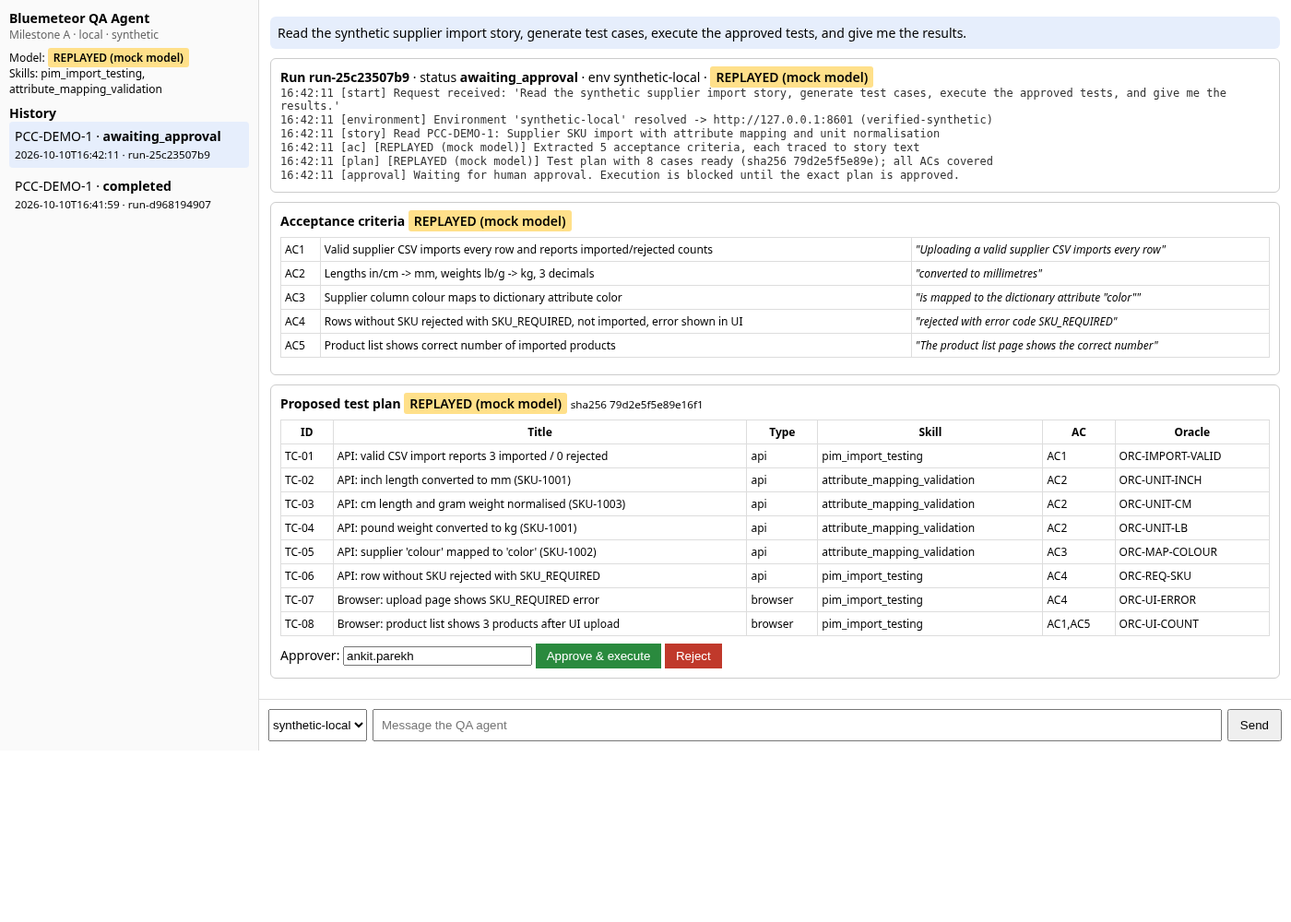
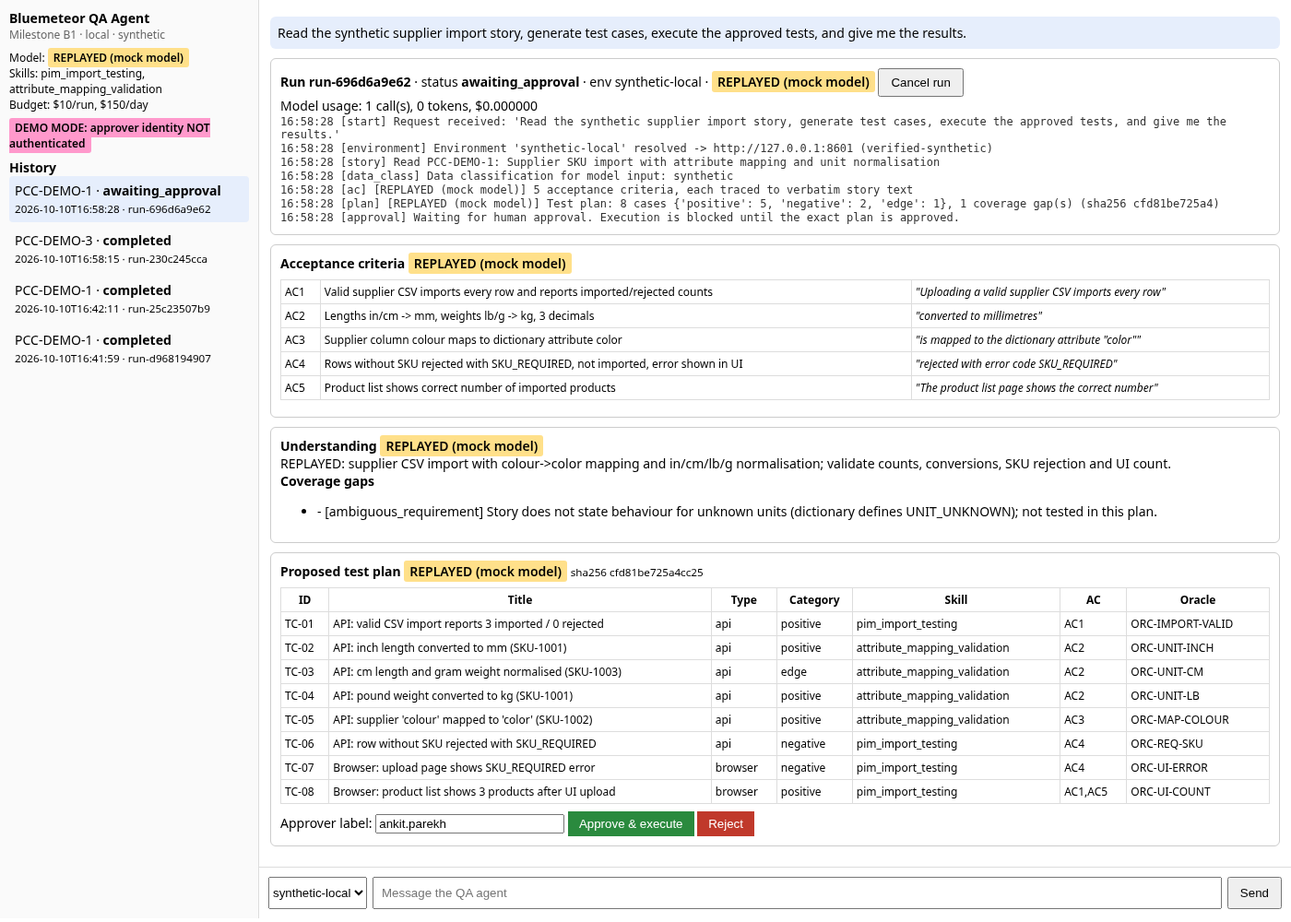
B1: workspace UI (login, understanding/gaps, categories, cancel, usage, plan-hash approval), B1 two-user demo script + screenshots, README (B1 features, local-vs-enterprise controls, B2 enablement)

diff --git a/qa_agent/static/index.html b/qa_agent/static/index.html
@@ -16,16 +16,23 @@ table{border-collapse:collapse;width:100%;margin:8px 0}td,th{border:1px solid #d
 button{padding:6px 12px;cursor:pointer}#approve{background:#2a8a3e;color:#fff;border:0}#reject{background:#c0392b;color:#fff;border:0}
 .user{background:#e6eefc;padding:8px;border-radius:6px;margin:6px 0}
 </style></head><body>
-<div id="side"><b>Bluemeteor QA Agent</b><div style="font-size:12px;color:#666">Milestone A · local · synthetic</div>
-<div id="cfg" style="margin:8px 0;font-size:12px"></div><b>History</b><div id="runs"></div></div>
+<div id="side"><b>Bluemeteor QA Agent</b><div style="font-size:12px;color:#666">Milestone B1 · local · synthetic</div>
+<div id="cfg" style="margin:8px 0;font-size:12px"></div><div id="auth" style="margin:8px 0;font-size:12px"></div><b>History</b><div id="runs"></div></div>
 <div id="main"><div id="chat"><p style="color:#666">Ask, e.g.: <i>Read the synthetic supplier import story, generate test cases, execute the approved tests, and give me the results.</i></p></div>
 <div id="bar"><select id="env"></select><input id="msg" placeholder="Message the QA agent"><button id="send">Send</button></div></div>
 <script>
-let current = null, timer = null;
+let current = null, timer = null, plan_hash = null;
 const $ = s => document.querySelector(s), esc = s => String(s ?? '').replace(/[&<>"]/g, c => ({'&':'&amp;','<':'&lt;','>':'&gt;','"':'&quot;'}[c]));
 async function j(u, o) { const r = await fetch(u, o); if (!r.ok) throw new Error(await r.text()); return r.json(); }
+async function loadAuth() { const me = await (await fetch('/api/me')).json().catch(() => ({}));
+  if (me.mode === 'local' && !me.authenticated) { $('#auth').innerHTML = `<b>Sign in</b><br><input id="tok" type="password" placeholder="local token" style="width:100%"><button id="login" onclick="login()">Sign in</button>`; return false; }
+  $('#auth').innerHTML = me.mode === 'demo' ? '<span class="lbl" style="background:#f9c">DEMO MODE: approver identity NOT authenticated</span>'
+    : `Signed in: <b>${esc(me.user)}</b> (${esc(me.role)}) <a href="#" onclick="logout()">sign out</a>`; return true; }
+async function login() { const r = await fetch('/api/login', {method:'POST', headers:{'Content-Type':'application/json'}, body: JSON.stringify({token: $('#tok').value})});
+  if (!r.ok) { alert('invalid token'); return; } boot(); }
+async function logout() { await fetch('/api/logout', {method:'POST'}); location.reload(); }
 async function loadCfg() { const c = await j('/api/config');
-  $('#cfg').innerHTML = `Model: <span class="lbl">${esc(c.model_label)}</span><br>Skills: ${c.skills.map(s => esc(s.name)).join(', ')}`;
+  $('#cfg').innerHTML = `Model: <span class="lbl">${esc(c.model_label)}</span><br>Skills: ${c.skills.map(s => esc(s.name)).join(', ')}<br>Budget: $${c.budget.per_run_usd}/run, $${c.budget.daily_usd}/day`;
   $('#env').innerHTML = c.environments.map(e => `<option>${esc(e)}</option>`).join(''); }
 async function loadRuns() { const rs = await j('/api/runs');
   $('#runs').innerHTML = rs.map(r => `<div class="run ${r.id === current ? 'sel' : ''}" onclick="show('${r.id}')">${esc(r.story_key || '?')} · <b>${esc(r.status)}</b><br><small>${esc(r.created.slice(0,19))} · ${esc(r.id)}</small></div>`).join(''); }
@@ -33,25 +40,31 @@ async function show(id) { current = id; clearInterval(timer); await render(); ti
 async function render() {
   if (!current) return; const r = await j('/api/runs/' + current); const base = '/api/runs/' + current;
   let h = `<div class="user">${esc(r.request)}</div><div class="card"><b>Run ${esc(r.id)}</b> · status <b id="status">${esc(r.status)}</b> · env ${esc(r.environment)} · <span class="lbl">${esc(r.model_label)}</span>
+   ${['planning','awaiting_approval','executing'].includes(r.status) ? `<button id="cancel" onclick="cancelRun()">Cancel run</button>` : ''}
+   <div>Model usage: ${r.usage.calls} call(s), ${r.usage.total_tokens} tokens, $${r.usage.cost_usd.toFixed(6)}</div>
    <div id="events">${r.events.map(e => `<div class="ev">${esc(e.ts.slice(11,19))} [${esc(e.step)}] ${esc(e.message)}</div>`).join('')}</div></div>`;
   if (r.ac_json) h += `<div class="card"><b>Acceptance criteria</b> <span class="lbl">${esc(r.model_label)}</span><table>${r.ac_json.acceptance_criteria.map(a => `<tr><td>${a.id}</td><td>${esc(a.text)}</td><td><i>"${esc(a.source_quote)}"</i></td></tr>`).join('')}</table></div>`;
-  if (r.plan_json) { h += `<div class="card" id="plan"><b>Proposed test plan</b> <span class="lbl">${esc(r.model_label)}</span> <small>sha256 ${esc(r.plan_hash.slice(0,16))}</small><table><tr><th>ID</th><th>Title</th><th>Type</th><th>Skill</th><th>AC</th><th>Oracle</th></tr>
-    ${r.plan_json.test_cases.map(t => `<tr><td>${t.id}</td><td>${esc(t.title)}</td><td>${t.type}</td><td>${esc(t.skill)}</td><td>${t.ac_refs.join(',')}</td><td>${esc(t.oracle_ref)}</td></tr>`).join('')}</table>`;
-    if (r.status === 'awaiting_approval') h += `Approver: <input id="who" value="ankit.parekh"> <button id="approve" onclick="decide('approved')">Approve &amp; execute</button> <button id="reject" onclick="decide('rejected')">Reject</button>`;
-    else if (r.approval) h += `<div>Plan <b>${esc(r.approval.decision)}</b> by ${esc(r.approval.approver)} at ${esc(r.approval.ts)}</div>`;
+  if (r.planning_json) { const u = r.planning_json.understanding; h += `<div class="card"><b>Understanding</b> <span class="lbl">${esc(r.model_label)}</span><div>${esc(u.summary)}</div>${u.assumptions.length ? '<small>Assumptions: ' + u.assumptions.map(esc).join('; ') + '</small>' : ''}
+    <div id="gaps"><b>Coverage gaps</b><ul>${r.planning_json.coverage_gaps.map(g => `<li>${esc(g.ac_refs.join(',') || '-')} [${esc(g.kind)}] ${esc(g.reason)}</li>`).join('') || '<li>none</li>'}</ul></div></div>`; }
+  if (r.plan_json) { plan_hash = r.plan_hash; h += `<div class="card" id="plan"><b>Proposed test plan</b> <span class="lbl">${esc(r.model_label)}</span> <small>sha256 ${esc(r.plan_hash.slice(0,16))}</small><table><tr><th>ID</th><th>Title</th><th>Type</th><th>Category</th><th>Skill</th><th>AC</th><th>Oracle</th></tr>
+    ${r.plan_json.test_cases.map(t => `<tr><td>${t.id}</td><td>${esc(t.title)}</td><td>${t.type}</td><td>${esc(t.category || '')}</td><td>${esc(t.skill)}</td><td>${t.ac_refs.join(',')}</td><td>${esc(t.oracle_ref)}</td></tr>`).join('')}</table>`;
+    if (r.status === 'awaiting_approval') h += `Approver label: <input id="who" value="ankit.parekh"> <button id="approve" onclick="decide('approved')">Approve &amp; execute</button> <button id="reject" onclick="decide('rejected')">Reject</button>`;
+    else if (r.approval) h += `<div>Plan <b>${esc(r.approval.decision)}</b> by ${esc(r.approval.approver)} (${r.approval.identity ? 'authenticated' : 'UNAUTHENTICATED demo label'}) at ${esc(r.approval.ts)}</div>`;
     h += `</div>`; }
-  if (r.results.length) h += `<div class="card" id="results"><b>Results</b>${r.summary_json ? ` — ${r.summary_json.passed} passed, ${r.summary_json.failed} failed, ${r.summary_json.error} error, ${r.summary_json.blocked} blocked` : ' (running…)'}
+  if (r.results.length) h += `<div class="card" id="results"><b>Results</b>${r.summary_json ? ` — ${r.summary_json.passed} passed, ${r.summary_json.failed} failed, ${r.summary_json.error} error, ${r.summary_json.blocked} blocked` : ' (running…)'}${r.summary_json ? '' : ''}
     <table><tr><th>ID</th><th>Test</th><th>Status</th><th>Mismatch / error</th><th>Evidence</th></tr>${r.results.map(x => `<tr><td>${x.id}</td><td>${esc(x.title)}</td><td><span class="badge ${x.status}">${x.status}</span></td>
     <td>${x.diffs.length ? x.diffs.map(d => `${esc(d.field)}: expected ${esc(JSON.stringify(d.expected))}, got ${esc(JSON.stringify(d.actual))}`).join('<br>') : esc(x.error || '')}</td>
-    <td>${x.screenshot ? `<a href="${base}/artifacts/${x.screenshot}" target=_blank><img src="${base}/artifacts/${x.screenshot}" width=120></a>` : ''} <a href="${base}/artifacts/${x.trace}">trace</a> <a href="${base}/artifacts/${x.log}" target=_blank>log</a></td></tr>`).join('')}</table></div>`;
-  if (r.status === 'completed') h += `<div class="card" id="links"><a id="report-link" href="${base}/report.html" target=_blank>Report (HTML)</a> · <a href="${base}/report.json">Report (JSON)</a> · <a href="${base}/audit.jsonl" target=_blank>Audit log (${r.audit_count})</a></div>`;
+    <td>${x.screenshot ? `<a href="${base}/artifacts/${x.screenshot}" target=_blank><img src="${base}/artifacts/${x.screenshot}" width=120></a>` : ''} ${x.trace ? `<a href="${base}/artifacts/${x.trace}">trace</a>` : ''} ${x.log ? `<a href="${base}/artifacts/${x.log}" target=_blank>log</a>` : ''}</td></tr>`).join('')}</table></div>`;
+  if (['completed','cancelled'].includes(r.status) && r.summary_json) h += `<div class="card" id="links"><a id="report-link" href="${base}/report.html" target=_blank>Report (HTML)</a> · <a href="${base}/report.json">Report (JSON)</a> · <a href="${base}/audit.jsonl" target=_blank>Audit log (${r.audit_count})</a></div>`;
   if (r.error) h += `<div class="card" style="color:#c0392b">Error: ${esc(r.error)}</div>`;
   $('#chat').innerHTML = h; loadRuns();
-  if (['completed','failed','rejected','blocked','interrupted'].includes(r.status)) clearInterval(timer);
+  if (['completed','failed','rejected','blocked','interrupted','cancelled'].includes(r.status)) clearInterval(timer);
 }
-async function decide(d) { await j(`/api/runs/${current}/approval`, {method:'POST', headers:{'Content-Type':'application/json'}, body: JSON.stringify({approver: $('#who').value, decision: d})}); show(current); }
+async function cancelRun() { await j(`/api/runs/${current}/cancel`, {method:'POST'}); render(); }
+async function decide(d) { try { await j(`/api/runs/${current}/approval`, {method:'POST', headers:{'Content-Type':'application/json'}, body: JSON.stringify({approver: $('#who').value, decision: d, plan_hash})}); } catch (e) { alert(e.message); } show(current); }
 $('#send').onclick = async () => { const m = $('#msg').value.trim(); if (!m) return; $('#msg').value = '';
   const r = await j('/api/chat', {method:'POST', headers:{'Content-Type':'application/json'}, body: JSON.stringify({message: m, environment: $('#env').value})}); show(r.run_id); };
 $('#msg').onkeydown = e => { if (e.key === 'Enter') $('#send').click(); };
-loadCfg(); loadRuns();
+async function boot() { if (await loadAuth()) { loadCfg(); loadRuns(); } }
+boot();
 </script></body></html>

diff --git a/scripts/demo_b1.py b/scripts/demo_b1.py
@@ -1,0 +1,85 @@
+"""Milestone B1 demo, fully local: synthetic SUT + LOCAL model stub (no real model) + agent in local-auth mode.
+Drives the real UI with Playwright as two users (requester, approver) and saves screenshots to docs/screenshots/b1_*.png.
+
+  .venv/bin/python scripts/demo_b1.py [STORY_KEY]      (default PCC-DEMO-3, the prompt-injection story)
+
+The XAI_API_KEY used here is a FAKE placeholder sent only to the 127.0.0.1 stub. Pricing values are FAKE demo
+placeholders so the cost arithmetic is visible; they are not xAI prices."""
+import copy, json, os, subprocess, sys, time
+from pathlib import Path
+import httpx
+from playwright.sync_api import sync_playwright
+
+ROOT = Path(__file__).resolve().parent.parent
+sys.path.insert(0, str(ROOT))
+from qa_agent.auth import UserStore  # noqa: E402
+
+SHOTS, DATA = ROOT / "docs/screenshots", ROOT / "data"
+STORY = sys.argv[1] if len(sys.argv) > 1 else "PCC-DEMO-3"
+
+
+def up(url):
+    for _ in range(150):
+        try:
+            if httpx.get(url).status_code < 500:
+                return
+        except httpx.HTTPError:
+            time.sleep(0.1)
+    raise SystemExit(f"{url} did not start")
+
+
+def main():
+    SHOTS.mkdir(parents=True, exist_ok=True); DATA.mkdir(exist_ok=True)
+    us = UserStore(DATA / "users.json")
+    req_tok, appr_tok = us.add("ankit", "requester"), us.add("qa_lead", "approver")
+    cfg = json.loads((ROOT / "config/agent.json").read_text())
+    cfg["model"]["provider"] = "grok"
+    cfg["providers"]["grok"].update(enabled=True, base_url="http://127.0.0.1:8701/v1",
+                                    pricing={"input_per_mtok_usd": 2.0, "cached_input_per_mtok_usd": 0.5, "output_per_mtok_usd": 6.0},
+                                    _pricing_note="FAKE demo placeholder prices")
+    (DATA / "demo_b1_agent_config.json").write_text(json.dumps(cfg, indent=2))
+    env = dict(os.environ, SUT_DEFECTS=os.environ.get("SUT_DEFECTS", "all"), SYNTHETIC_SUT_URL="http://127.0.0.1:8601",
+               QA_AUTH_MODE="local", QA_USERS_FILE=str(DATA / "users.json"), QA_AGENT_CONFIG=str(DATA / "demo_b1_agent_config.json"),
+               XAI_API_KEY="xai-LOCALSTUBFAKEKEY-not-a-real-credential")
+    procs = [subprocess.Popen([sys.executable, "-m", "uvicorn", "sut.app:app", "--host", "127.0.0.1", "--port", "8601"], cwd=ROOT, env=env),
+             subprocess.Popen([sys.executable, "-m", "uvicorn", "qa_agent.devtools.model_stub:app", "--host", "127.0.0.1", "--port", "8701"], cwd=ROOT, env=env),
+             subprocess.Popen([sys.executable, "-m", "qa_agent.server"], cwd=ROOT, env=env)]
+    try:
+        up("http://127.0.0.1:8601/api/health"); up("http://127.0.0.1:8701/_stub/requests"); up("http://127.0.0.1:8600/api/me")
+        css = "body{height:auto!important} #main{height:auto} #chat{overflow:visible!important}"
+        with sync_playwright() as pw:
+            b = pw.chromium.launch(headless=True)
+            req = b.new_context(viewport={"width": 1400, "height": 1000}).new_page()
+            req.goto("http://127.0.0.1:8600/"); req.add_style_tag(content=css)
+            req.wait_for_selector("#tok"); req.fill("#tok", req_tok); req.click("#login")
+            req.wait_for_selector("#msg")
+            req.fill("#msg", f"Read {STORY}, generate test cases, execute the approved tests, and give me the results.")
+            req.click("#send")
+            req.wait_for_selector("#gaps", timeout=30000)
+            req.screenshot(path=str(SHOTS / "b1_01_requester_plan_with_gaps.png"), full_page=True)
+            rid = req.inner_text("#chat .card b").split()[-1]
+            appr = b.new_context(viewport={"width": 1400, "height": 1000}).new_page()
+            appr.goto("http://127.0.0.1:8600/"); appr.add_style_tag(content=css)
+            appr.wait_for_selector("#tok"); appr.fill("#tok", appr_tok); appr.click("#login")
+            appr.wait_for_selector(f"text={rid}"); appr.click(f"text={rid}")
+            appr.wait_for_selector("#approve")
+            appr.screenshot(path=str(SHOTS / "b1_02_approver_review.png"), full_page=True)
+            appr.click("#approve")
+            appr.wait_for_selector("#links", timeout=180000)
+            appr.screenshot(path=str(SHOTS / "b1_03_results.png"), full_page=True)
+            b.close()
+        H = {"Authorization": f"Bearer {appr_tok}"}
+        run = httpx.get(f"http://127.0.0.1:8600/api/runs/{rid}", headers=H).json()
+        print(json.dumps({"run_id": rid, "story": STORY, "status": run["status"], "model_label": run["model_label"],
+                          "summary": run["summary_json"], "usage": run["usage"], "approval": {k: run["approval"][k] for k in ("approver", "identity", "auth_mode")},
+                          "coverage_gaps": run["planning_json"]["coverage_gaps"],
+                          "stub_requests": len(httpx.get("http://127.0.0.1:8701/_stub/requests").json()),
+                          "audit_verify": httpx.get("http://127.0.0.1:8600/api/audit/verify", headers=H).json(),
+                          "report": str(DATA / "runs" / rid / "report.html")}, indent=2))
+    finally:
+        for p in procs:
+            p.terminate(); p.wait(10)
+
+
+if __name__ == "__main__":
+    main()

diff --git a/qa_agent/server.py b/qa_agent/server.py
@@ -34,6 +34,9 @@ class LoginIn(BaseModel):
 
 def create_app(data_dir: Path | None = None, auth_mode: str | None = None, users_file: Path | None = None, agent_cfg: dict | None = None) -> FastAPI:
     data_dir = Path(data_dir or os.environ.get("QA_DATA_DIR", ROOT / "data"))
+    if agent_cfg is None and os.environ.get("QA_AGENT_CONFIG"):
+        import json
+        agent_cfg = json.loads(Path(os.environ["QA_AGENT_CONFIG"]).read_text())
     agent = QAAgent(data_dir, agent_cfg=agent_cfg)
     acfg = agent.cfg.get("auth", {})
     mode = auth_mode or os.environ.get("QA_AUTH_MODE") or acfg.get("mode", "demo")
@@ -86,7 +89,11 @@ def create_app(data_dir: Path | None = None, auth_mode: str | None = None, users
         return {"ok": True}
 
     @app.get("/api/me")
-    def me(p: Principal = Depends(principal)):
+    def me(request: Request):
+        try:
+            p = principal(request)
+        except HTTPException:
+            return {"user": None, "role": None, "mode": mode, "authenticated": False}
         return {"user": p.name, "role": p.role, "mode": p.mode, "authenticated": p.authenticated}
 
     @app.get("/api/config")

diff --git a/README.md b/README.md
@@ -1,4 +1,4 @@
-# Bluemeteor QA Agent — Milestone A (local, synthetic, replay model)
+# Bluemeteor QA Agent — Milestones A + B1 (local, synthetic; no real model reasoning yet)
 
 A small, working, general-purpose QA agent. It reads a Jira-style story, extracts acceptance criteria, proposes a
 test plan, waits for **human approval of the exact plan**, runs **real Playwright** browser + API tests against a
@@ -43,6 +43,71 @@ Runs, the SQLite history (`data/qa_agent.db`) and artifacts (`data/runs/<run_id>
 Seeded defects (`SUT_DEFECTS`, comma list or `all`): `inch_factor`, `drop_color`, `no_sku_validation`, `ui_count_off`.
 With `all`, the expected result is 3 passed / 5 failed (TC-02, TC-05, TC-06, TC-07, TC-08). With none, it's 8/8 passed.
 
+
+## Milestone B1 (implemented, local only; no live API calls have been made)
+
+> **No real model reasoning has happened yet.** Plans come either from the **Replay** provider (recordings) or from
+> `GrokProvider` pointed at a **local OpenAI-compatible stub** (`qa_agent/devtools/model_stub.py`) that answers from the
+> same hand-authored recordings. Labels: `REPLAYED (mock model)` and `STUB ENDPOINT (...; NOT real model reasoning)`.
+> Live use (`LIVE MODEL (...)`) is Milestone B2 and needs approvals.
+
+**GrokProvider** (`qa_agent/providers/models.py`)
+- Calls `POST {base_url}/chat/completions`, the OpenAI-compatible xAI Chat Completions endpoint. It sends `response_format: {type: json_schema, json_schema: {name, schema, strict: true}}` and `max_completion_tokens`, because the docs mark `max_tokens` as deprecated.
+  Sources (checked 2026-10-10): [Structured Outputs](https://docs.x.ai/docs/guides/structured-outputs), [Chat Completions reference](https://docs.x.ai/developers/rest-api-reference/inference/chat-completions), [Rate limits](https://docs.x.ai/developers/rate-limits) (429, back off), [Debugging errors](https://docs.x.ai/docs/debugging).
+  xAI recommends the Responses API for new integrations. This build uses Chat Completions for OpenAI compatibility, and moving to Responses is a later change.
+- Model name, base URL, timeout, retries, backoff and max tokens are all set in config (`config/agent.json -> providers.grok`). Retries use exponential backoff on 429/5xx/timeouts and honour `Retry-After`, capped. Other 4xx errors are not retried.
+- The provider fails closed when any of these is true: `enabled=false`, no API key in the env var `XAI_API_KEY` (read server-side at call time only), pricing not configured, an external host without `approved=true` plus `approval_ref`, a data class not in `allowed_data_classes`, or no audited gateway bound. There is **no automatic fallback** to another provider.
+- Egress is checked at the gateway (`model.request`, default deny). Loopback is allowed for the stub. `api.x.ai` passes only when it is listed in `approved_model_hosts` **and** the provider is approved. Tests show a misconfigured `api.x.ai` call being denied before anything leaves the process, with a socket guard in place.
+- Secrets are redacted from audit, events, errors, logs and reports (`util.redact`, which matches registered env values, `xai-…` and `Bearer …`). A test checks the DB, JSONL, evidence, unzipped traces and every API response for the key after a run in which the endpoint echoed the key back.
+
+**Dynamic planning** (`qa_agent/planning.py`)
+- The model receives the story wrapped as untrusted data (`<untrusted_story>`), plus a catalog of registered skill actions with their allowed params, oracle IDs with the ACs/actions they cover and the fields they check (expected values are **withheld**), and the fixture files.
+- It returns: understanding, ACs with verbatim quotes, behaviors, positive/negative/edge tests, selected skills, executable specs and coverage gaps. A human approves the plan before anything runs.
+- **Policy violations are never repaired.** They are rejected and audited (`model.output_validation` deny). They include: restricted keys (command, url, endpoint, expected, permissions, tool, auto_approve…), unknown skills/actions/oracles, an oracle not approved for those ACs or that action, fabricated ACs or quotes, unsupported or mismatched test types, and params outside the allowlist (file allowlist, SKU pattern, no shell/URL/traversal patterns).
+- **Format errors get a bounded repair** (`repair.max_format_repairs`, default 2): invalid JSON, schema mismatch, empty or truncated output (`finish_reason=length`), duplicate IDs, and ACs that are neither tested nor declared as gaps.
+- New synthetic stories: `PCC-DEMO-2` (weight units, UNIT_UNKNOWN, ETIM gap), `PCC-DEMO-3` (prompt injection in the story text; a `obey_injection` stub variant tests rejection) and `PCC-DEMO-4` (header-only edge case, size-limit gap). Each has a reviewer-style oracle manifest.
+
+**Cost and usage**
+- Each call is stored in SQLite with prompt, cached, completion and reasoning tokens. Cost = usage × configured prices (USD per 1M tokens; reasoning tokens billed as output when `total_tokens` includes them, per the documented examples).
+- The per-run cap (`budget.per_run_usd`) and the daily cap (`budget.daily_usd`, UTC day) are checked **before** each call against a conservative estimate. Unknown pricing means the provider won't start. A response with no usage block fails closed and is charged at the estimate.
+- Telemetry is at `/api/telemetry`, and per-run usage at `/api/runs/{id}/usage` and in the report. Replay costs $0.
+- `pricing` is `null` in the repo on purpose. Enter the prices from your xAI console/models page during B2 enablement. Tests and the B1 demo use **fake placeholder prices**.
+
+**Approvals, auth and audit**
+- There are two auth modes (`auth.mode` / `QA_AUTH_MODE`):
+  - `demo` (default, for the scripted A demo): the approver name is an **unauthenticated label**, flagged as such in the UI and the report.
+  - `local`: PBKDF2-hashed bearer tokens in a users file (`python -m qa_agent.auth add-user NAME --role viewer|requester|approver`), via an Authorization header or an HttpOnly SameSite=Strict cookie from `/api/login`.
+- Roles are enforced per endpoint. Approval requires the exact `plan_hash` (a stale hash returns 409 and is audited). Self-approval is forbidden. Duplicate approvals return 409. Rejection stops execution, and so does a plan modified after approval.
+- The audit log is hash-chained (`prev_hash` → `entry_hash`) in SQLite and JSONL. Check it with `python -m qa_agent.audit_verify --data-dir data` or `GET /api/audit/verify`; tampering such as an update or a deleted row is detected. Rows from Milestone A predate the chain and are reported as `legacy`.
+
+**Reliability**
+- Only one execution runs at a time, because the SUT is shared. A second approval gets 409 and nothing is recorded.
+- Runs can be cancelled (`POST /api/runs/{id}/cancel`): remaining tests are marked `not_run` and a partial report is still written.
+- After a restart, runs that were in flight are marked `interrupted` with a reason.
+- Browser and API calls have timeouts (`execution.*_ms`). Any exception or timeout produces **ERROR**, never PASS, and evidence (screenshot, trace, log) is kept in a `finally` block. The `slow_api` fault in the SUT (`SUT_DEFECTS=slow_api`) exercises this path.
+
+### B1 demo (local auth + local stub; two users)
+```bash
+.venv/bin/python scripts/demo_b1.py            # PCC-DEMO-3 (prompt-injection story); or pass PCC-DEMO-2 / PCC-DEMO-4
+```
+This starts the SUT, the stub on `127.0.0.1:8701` and the agent with `QA_AUTH_MODE=local`. It creates the users `ankit` (requester) and `qa_lead` (approver) in `data/users.json` and drives the UI as both users, saving `docs/screenshots/b1_*.png`. The `XAI_API_KEY` it uses is a fake placeholder that is only ever sent to the loopback stub.
+
+### Local-demo vs enterprise-grade controls
+| Control | Here (local demo) | Enterprise target |
+|---|---|---|
+| Identity | demo label or local hashed tokens | Corporate SSO/OIDC, groups → roles |
+| Secrets | env var on the server process | Vault/secret manager reference, rotation |
+| Audit integrity | hash chain in local SQLite/JSONL (detects tampering, but someone with file access can rewrite the whole chain) | Append-only/WORM store or external log sink with signed checkpoints |
+| Egress | in-process gateway + loopback-only env registry | Network egress policy/proxy, sandboxed runners |
+| Execution isolation | single local lock, shared SUT | Per-run sandbox + synthetic tenant reset |
+| Budget | local SQLite counters | Gateway-level budgets + finance alerts |
+
+### Enabling Milestone B2 (real Grok reasoning), only after approvals
+1. Get written approval of the data policy (synthetic data only) and an **organisation-owned** xAI evaluation account. Personal credentials are not acceptable.
+2. In `config/agent.json → providers.grok`, set `enabled: true`, `approved: true` and `approval_ref: "<ticket/decision id>"`, confirm `model` and `base_url`, and enter `pricing` from the xAI console. Set `budget` caps.
+3. Provide `XAI_API_KEY` from the approved secret store to the server process environment only, then set `model.provider: "grok"` (or `QA_MODEL_PROVIDER=grok`).
+4. Run `pytest` (the offline suite still uses replay and the stub), then one supervised PCC-DEMO run and a check that `/api/audit/verify` passes. Compare the live plans against the oracles, and record approved live outputs as new replay fixtures for CI.
+
 ## Layout
 | Path | Purpose |
 |---|---|
@@ -52,7 +117,10 @@ With `all`, the expected result is 3 passed / 5 failed (TC-02, TC-05, TC-06, TC-
 | `qa_agent/executor.py` | Playwright executor; per-test context, trace.zip, screenshot, log |
 | `qa_agent/skills/` | Domain skills: `pim_import_testing`, `attribute_mapping_validation` |
 | `qa_agent/comparator.py` | Deterministic comparison against the oracle manifest |
-| `qa_agent/providers/` | `MockJiraProvider`, `ReplayModelProvider`, `GrokProvider` (disabled, fail-closed) |
+| `qa_agent/providers/` | `MockJiraProvider`, `ReplayModelProvider`, `GrokProvider` (B1: implemented, disabled by config, fail-closed) |
+| `qa_agent/planning.py` | Planning schema, prompt (untrusted story wrapping), format-vs-policy validation |
+| `qa_agent/auth.py`, `audit_verify.py` | Local auth boundary; audit chain verifier |
+| `qa_agent/devtools/model_stub.py` | Local OpenAI-compatible stub (no reasoning) for tests/demos |
 | `qa_agent/server.py`, `static/index.html` | Workspace: chat, history, live progress (1 s polling of real events), approval, results, evidence links |
 | `sut/app.py` | Synthetic PIM-like app under test (CSV upload UI + API, mapping, UoM conversion, validation, product list) |
 | `config/*.json` | Model selection, environment registry, tool policy |
@@ -64,9 +132,9 @@ With `all`, the expected result is 3 passed / 5 failed (TC-02, TC-05, TC-06, TC-
 - Tool policy is default-deny (`config/policy.json`). Target-touching tools (`http.request`, `browser.*`) need a recorded human approval **for the exact plan sha256**, a URL inside the environment, an allowed method, and files from `fixtures/data` only.
 - Every tool call, allowed or denied, is audited with run id, tool, args sha256, decision, reason, outcome and timestamp.
 - Model output is untrusted. It must pass the JSON schema, cite verbatim story text for each AC, and reference only registered skill actions and oracle IDs. Expected values come from the oracle manifest, never from the model or the app code.
-- `GrokProvider` refuses to construct unless `enabled`, `approved`, `approval_ref` and an API key from an approved secret reference are all present. Its `complete()` is not implemented yet.
+- See the B1 section above for the model provider, auth and audit-chain controls.
 
 ## Migration notes
-**Milestone B (after an approved xAI evaluation account and data policy):** implement `GrokProvider.complete()` against the OpenAI-compatible endpoint, using structured outputs with the schemas in `qa_agent/schemas.py`. Add retry/repair on invalid output, cost caps and a `data_class` guard, then set `"provider": "grok"` in `config/agent.json`. Keep `replay` for CI. Recordings can be captured from approved live runs.
+**Milestone B:** B1 is done (see above). B2 is enablement only (see the steps above).
 **Milestone C (after separate approvals):** add `JiraRestProvider` (read-only, Cloud or DC) and `BitbucketReadProvider` behind the existing interfaces. Register the verified Playground environment and synthetic tenant in `environments.json`, which means relaxing the loopback-only rule for that one entry. Replace the synthetic oracle with the QA lead's approved manifest. No production entries.
 **Deferred production components (contracts preserved):** the SQLite run store and threads map onto a durable workflow engine (Temporal) through `runtime.QAAgent`. `FileArtifactStore` maps onto object storage. The local model-provider switch maps onto a gateway such as LiteLLM or an internal one. Local execution maps onto a sandboxed runner (Docker/gVisor). Chat-page auth maps onto SSO.
